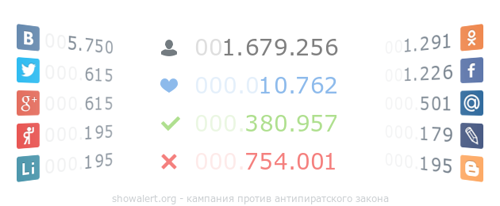
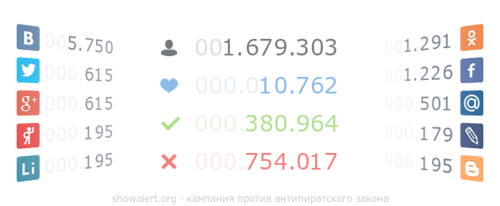
update statistics files for plugins

Changed region(s): [[0.6, 0.1748, 0.69, 0.2913], [0.6, 0.7282, 0.69, 0.8447], [0.6, 0.5534, 0.69, 0.6408]]

diff --git a/votes.js b/votes.js
@@ -1,1 +1,1 @@
-window.lk.votes(32428)
+window.lk.votes(32434)
